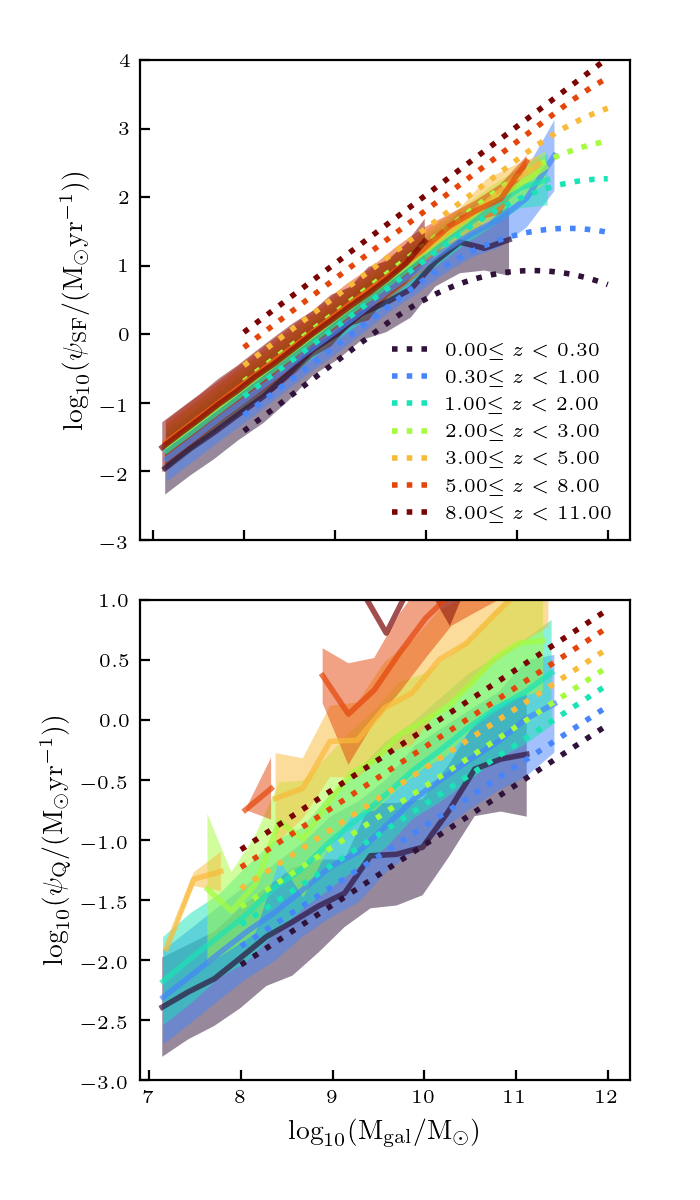
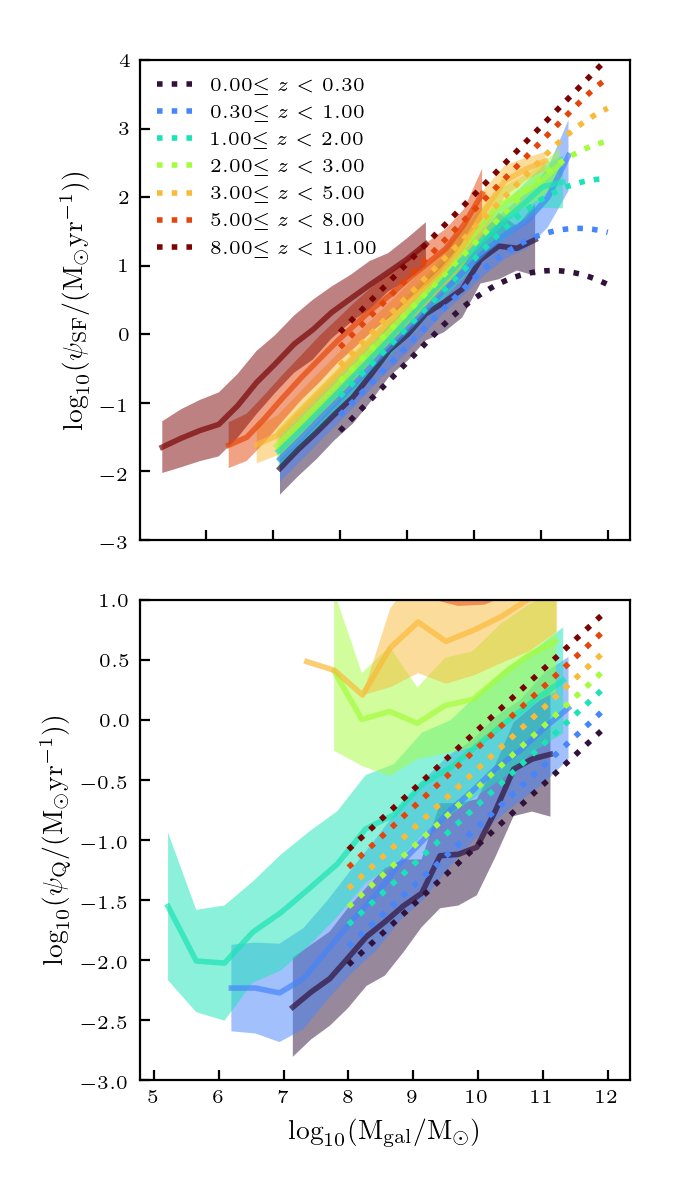
update post

diff --git a/_posts/2020-11-30-SFR_Evolved_Backwards.md b/_posts/2020-11-30-SFR_Evolved_Backwards.md
@@ -22,7 +22,14 @@ $$\Psi_2 = \dfrac{t-dt}{t} {\rm e}^{dt/\tau} \Psi_1$$
 
 I evolved things backwards by various  (only including galaxies where $$t>dt$$),
 
+To correct for the change in mass, I did abundance matching between the SMFs at the current redshift, and the redshift at time $$t-dt$$ (just by directly solving for when $$n(z,<M)=n(z+dz,<M')$$).
+
 ## Results
+
+### dt = 0.0 Gyr
+
+<img src="{{ site.baseurl }}/assets/plots/20201130_SFR_vs_M_evolution_0.png">
+
 
 ### dt = 0.1 Gyr
 
@@ -38,9 +45,11 @@ I evolved things backwards by various  (only including galaxies where $$t>dt$$),
 
 <img src="{{ site.baseurl }}/assets/plots/20201130_SFR_vs_M_evolution_1.png">
 
+### dt = 5 Gyr
+
+<img src="{{ site.baseurl }}/assets/plots/20201130_SFR_vs_M_evolution_5.png">
+
 
 ## Conclusions
 
-Once I evolve these back further than 0.1 Gyr, they really don't match anymore (though the Quiescent galaxies might be okay, since they would not necessarily be classified as Quiescent at a time $$dt$$ earlier). This indicates that my age assignment has problems. I plan to go through some papers, and get a better idea of what observational constraints and/or models there are on galaxy age distributions.
-
-If I am unable to assign galaxy ages directly, I can either constrain age distributions by forcing the mass-SFR relation at earlier redshifts, or assigning UV properties and then using this to constrain ages.
+The star-forming galaxies look pretty good, though the Quiescent galaxies don't match very well (though the Quiescent galaxies might be okay, since they would not necessarily be classified as Quiescent at a time $$dt$$ earlier).

diff --git a/_drafts/2020-12-05-Rockstar_Part_II.md b/_drafts/2020-12-05-Rockstar_Part_II.md
@@ -1,0 +1,23 @@
+---
+layout: post
+title:  "Rockstar Part II"
+date:   2020-11-13
+categories: cosmo_sims
+---
+
+As outlined <a href="https://ndrakos.github.io/blog/cosmo_sims/Rockstar/">here</a>, I had decided to switch to Rockstar for the halo finder.
+
+
+## 1024 HMF
+
+I ran the rockstar halo finder on the 1024 simulations according to the script earlier... Want to check that the HMF looks okayI updated my code to read in the rockstar formatted outputs, and also handle multiple files.
+
+Here is the plot:
+
+Halo definition different than before???
+
+For comparison, see the first plot in <a href="https://ndrakos.github.io/blog/mocks/HMF_Lightcone/">this post</a>, in which I plot the HMF from the 512 simulation... Can see we are resolving the HMF about a factor of 10 lower than before...
+
+## Next
+
+Next I will run this on the 2048 simulation, and also look into making merger trees (since abundance matching requires peak values).
